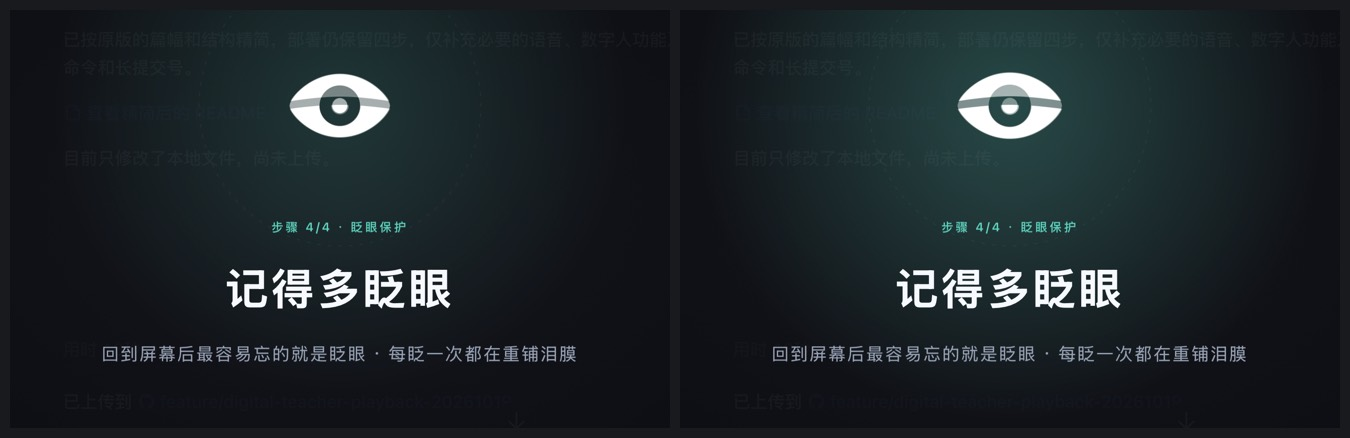
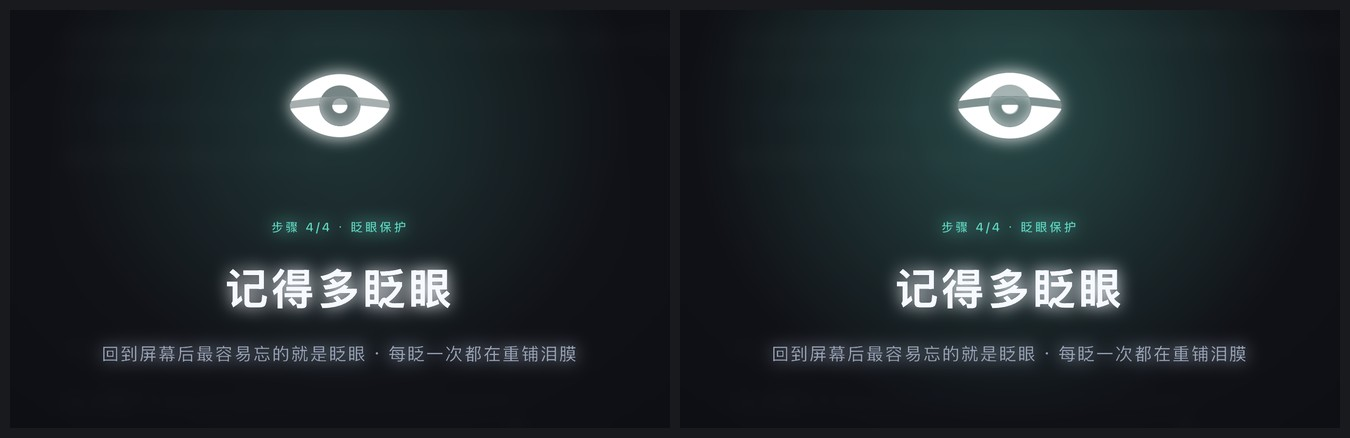
docs: 换成干净的菜单截图，修正配图位置
- 旧首图是一整张桌面截图，包含无关窗口内容，不适合公开
- 新图只裁菜单本体，铺在纯色背景上重拍，去掉背后窗口透出的模糊块
- 微休息示意图压掉遮罩背后透出的文字
- 「播报入口」配图放错了段落，改到状态栏一节

diff --git a/Sources/AppDelegate.swift b/Sources/AppDelegate.swift
@@ -771,6 +771,21 @@ class AppDelegate: NSObject, NSApplicationDelegate, NSMenuDelegate {
             openTodayReportAction()
         }
 
+        // 调试入口：`touch /tmp/rr_preview_menu.flag` 打开菜单并停留 2.5 秒，方便外部截图。
+        // 菜单进入 tracking 模式会阻塞主线程，所以收起用的 Timer 必须注册到 .eventTracking，
+        // 否则它要等菜单关掉之后才会触发，等于没用。
+        let menuFlag = "/tmp/rr_preview_menu.flag"
+        if FileManager.default.fileExists(atPath: menuFlag) {
+            try? FileManager.default.removeItem(atPath: menuFlag)
+            logDebug("调试：收到 /tmp/rr_preview_menu.flag，打开菜单等待截图")
+            let closer = Timer(timeInterval: 2.5, repeats: false) { [weak self] _ in
+                self?.statusItem.menu?.cancelTracking()
+            }
+            RunLoop.main.add(closer, forMode: .eventTracking)
+            RunLoop.main.add(closer, forMode: .common)
+            statusItem.button?.performClick(nil)
+        }
+
         // 微休息全屏指引中
         if isInMicroBreak {
             updateStatusIcon()
